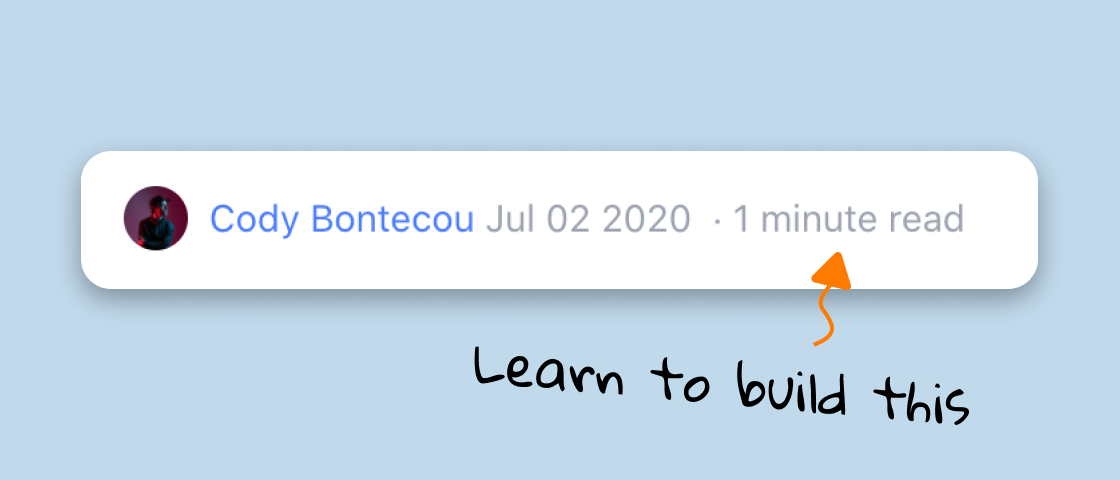
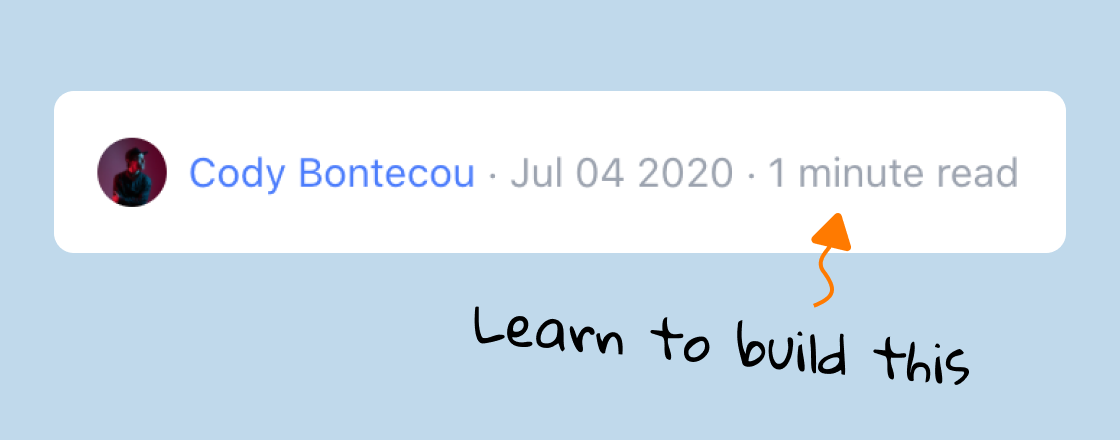
meta and header spacing with dots

Changed region(s): [[0.0312, 0.2068, 0.9688, 0.7386], [0.4062, 0.7091, 0.75, 0.8864], [0.7812, 0.7682, 0.875, 0.8864]]

diff --git a/src/.vuepress/components/HeaderMeta.vue b/src/.vuepress/components/HeaderMeta.vue
@@ -5,8 +5,8 @@
       alt="Portrait of Cody Bontecou"
       class="rounded-full w-6 mr-2"
     />
-    <span class="text-blue-ninja">{{ author.name }}&nbsp;</span>
-    {{ formattedDate }} &nbsp;·&nbsp; <ReadingTime :text="text" />
+    <span class="text-blue-ninja">{{ author.name }}</span>
+    &nbsp;·&nbsp;{{ formattedDate }}&nbsp;·&nbsp;<ReadingTime :text="text" />
   </div>
 </template>
 
